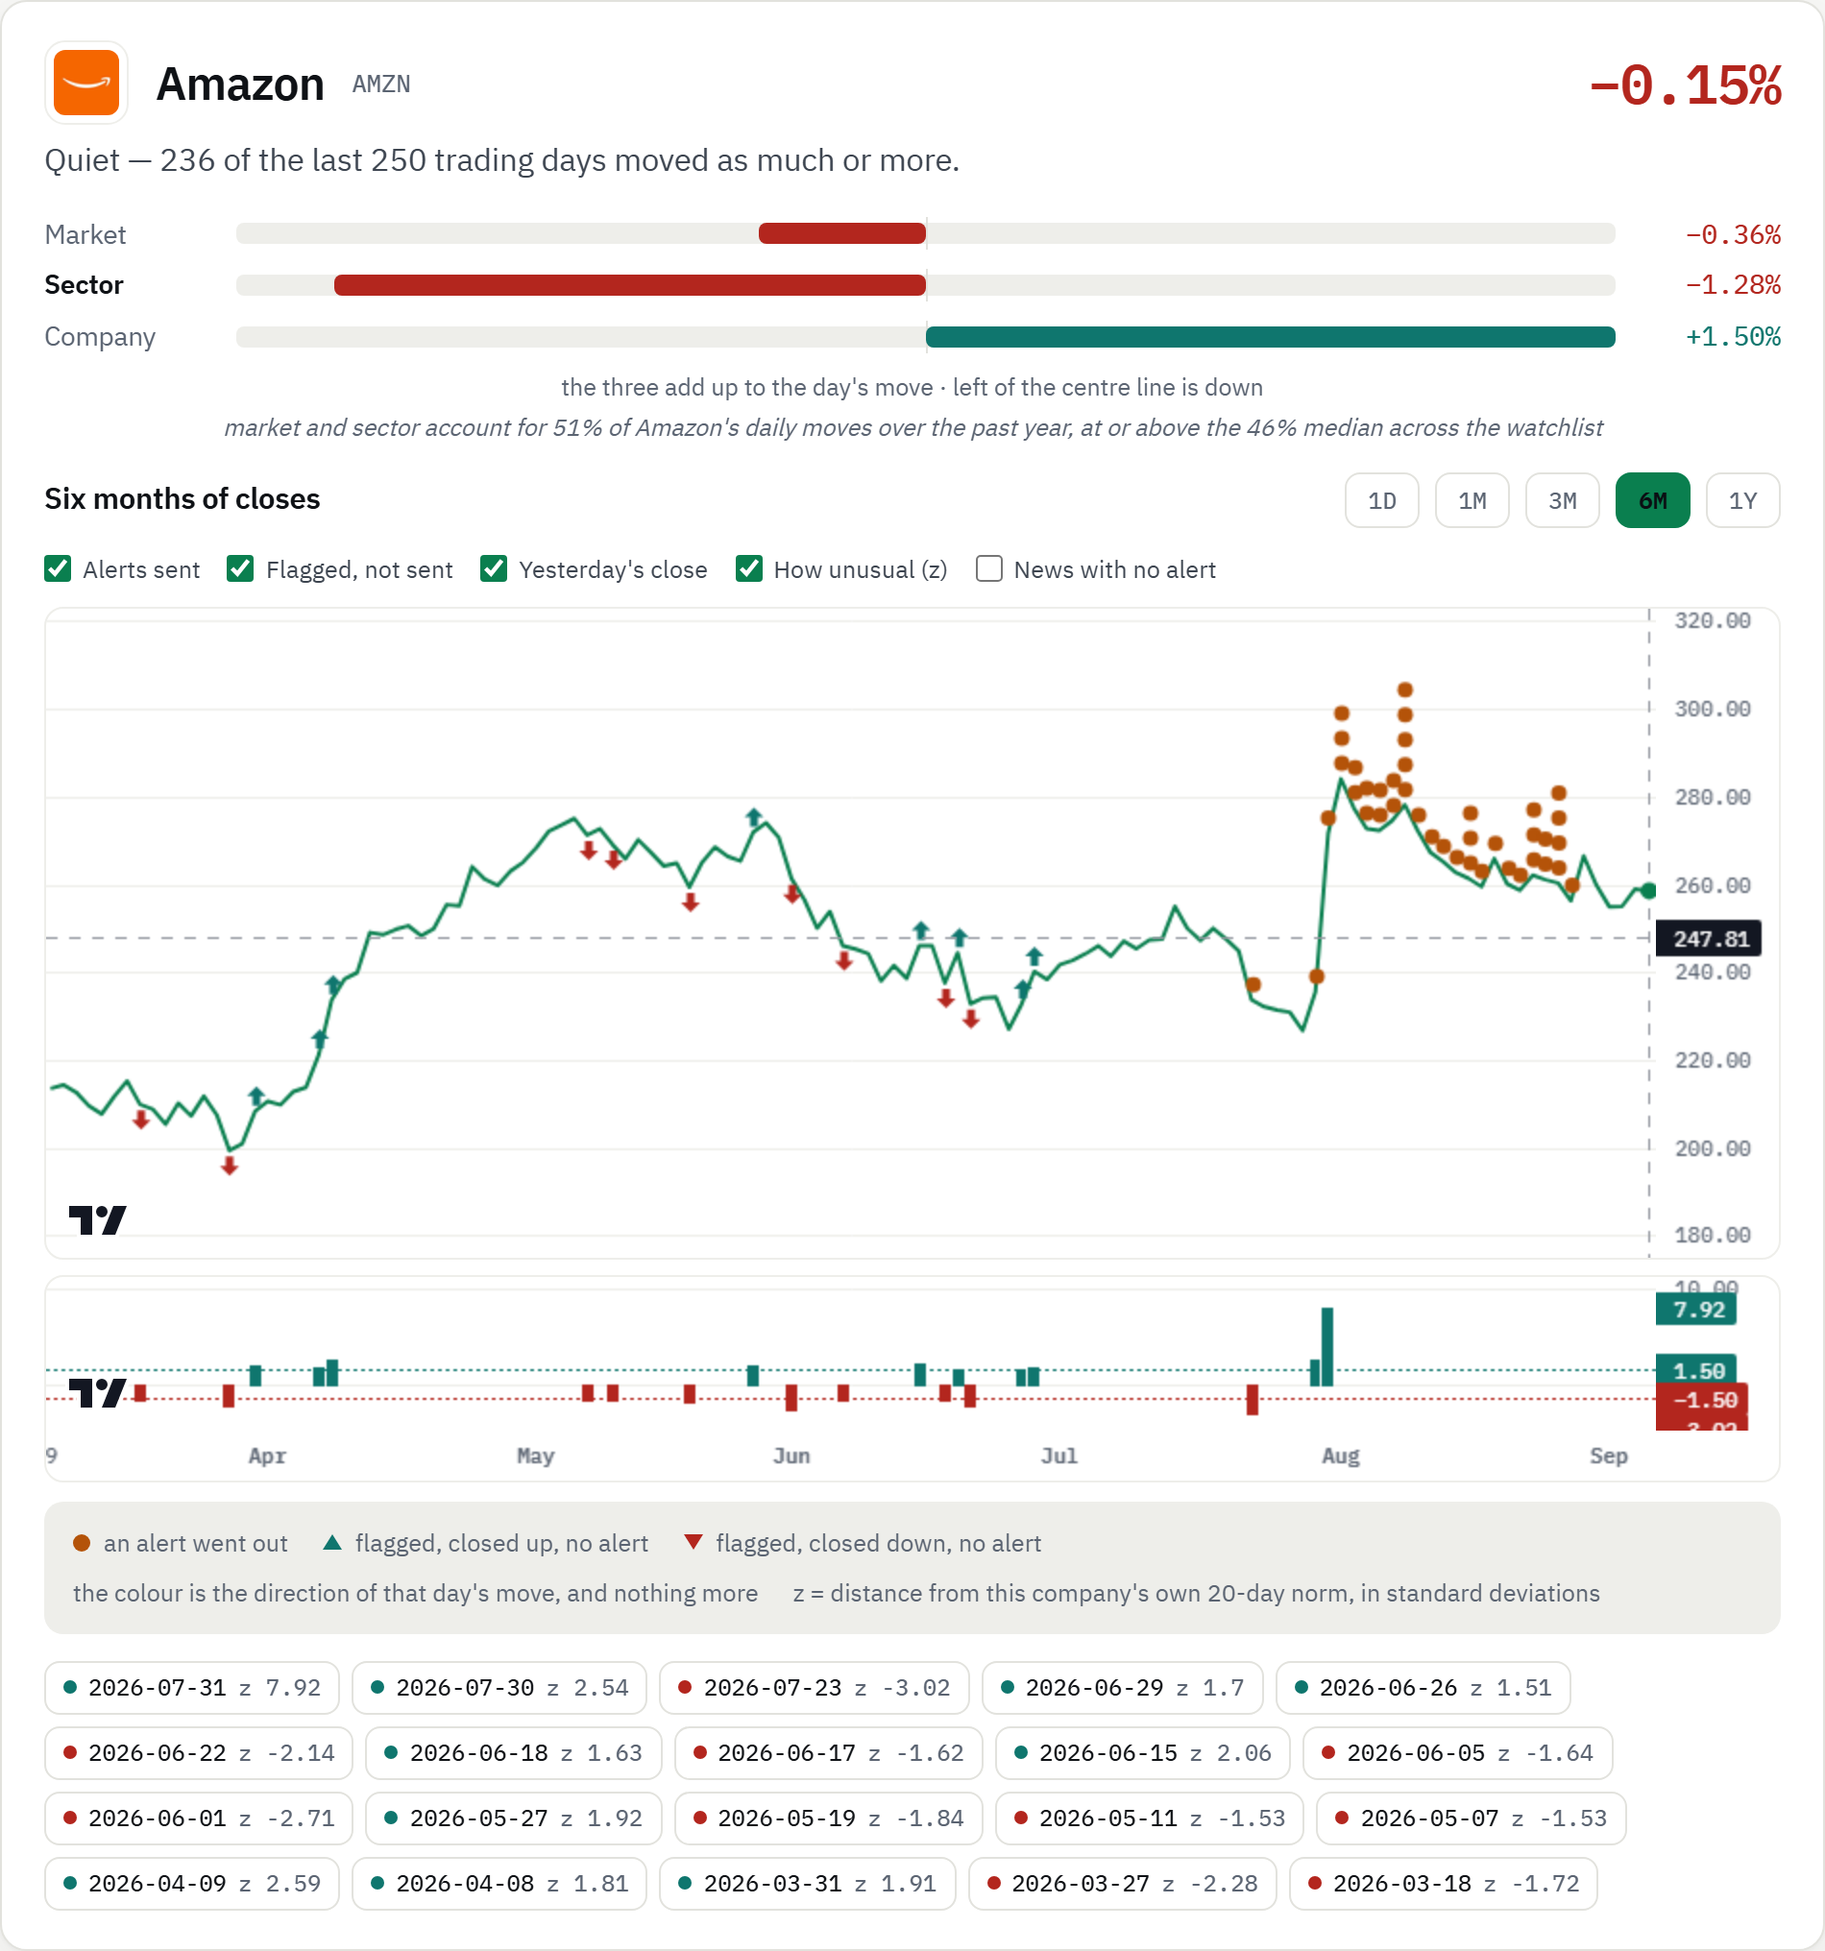
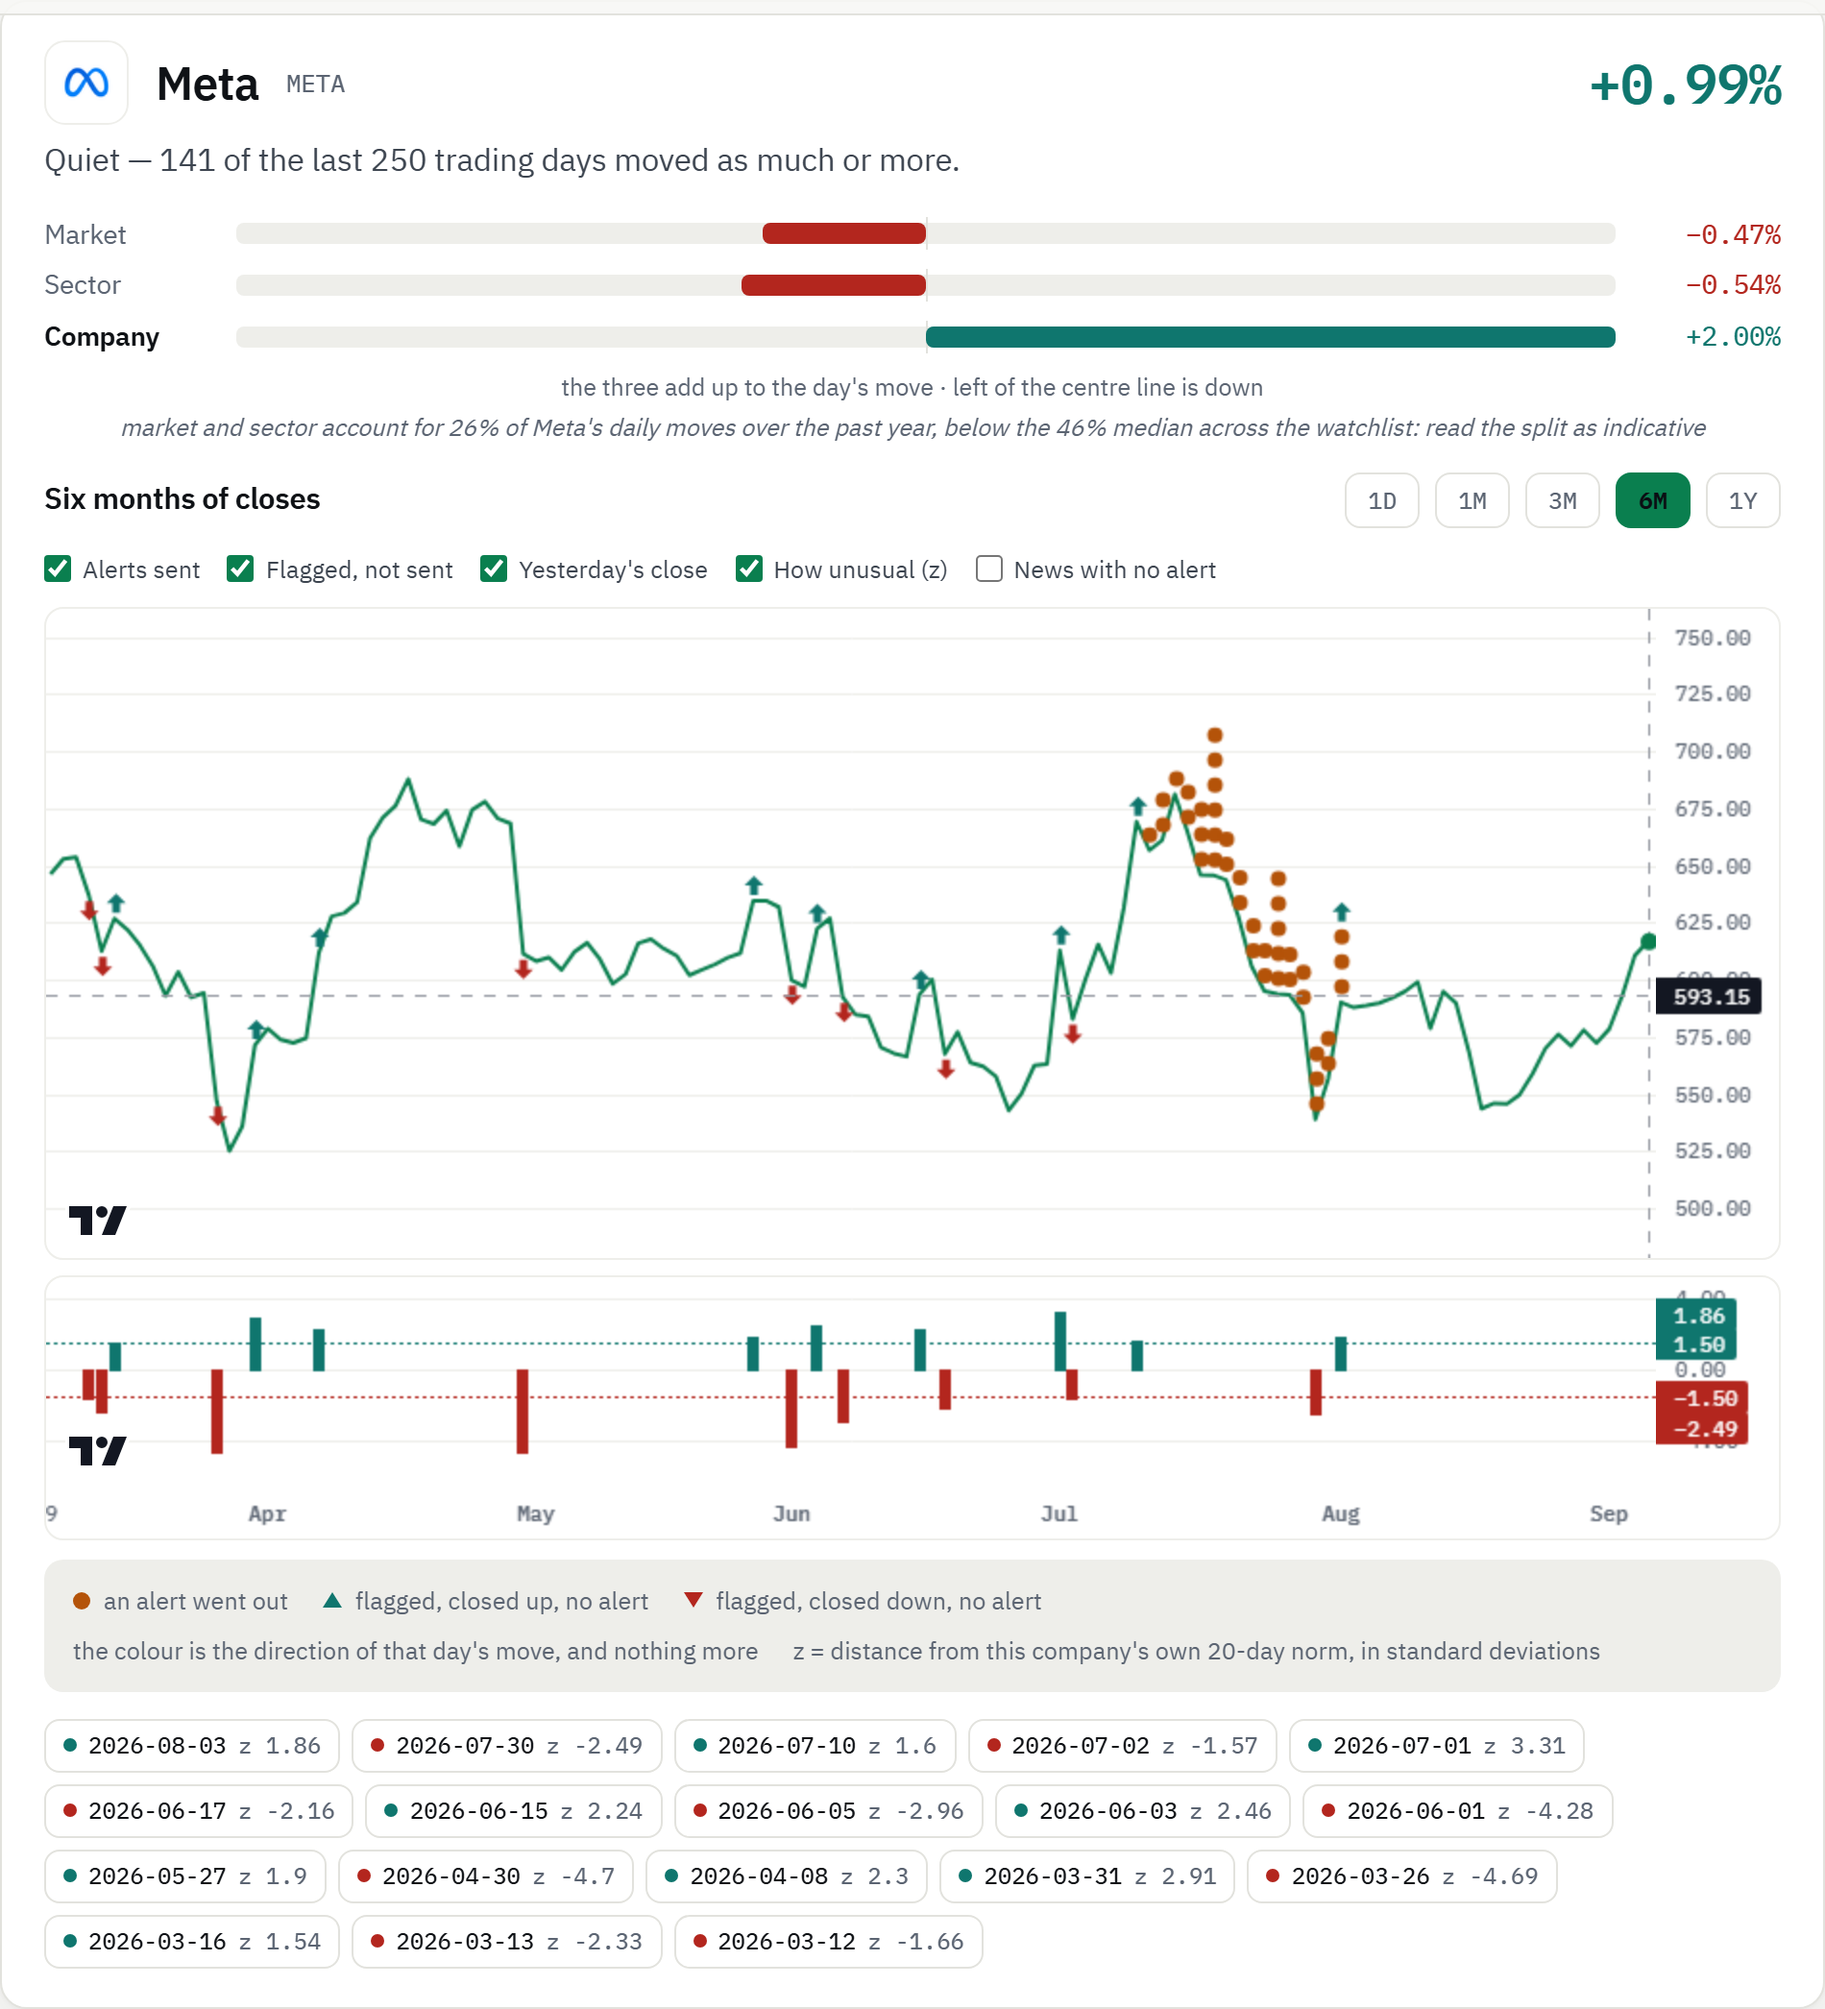
Faixa do z: intervalo fixado, em vez de margem no eixo
A margem não resolvia: o gerador de marcas adapta-se a ela e volta a colocar uma no
bordo, onde sai cortada a meio. O intervalo passa a ser fixado a partir dos dados,
simétrico à volta de zero -- a faixa mede distância à norma nos dois sentidos -- com
meia amplitude de folga para o rótulo mais alto ficar sempre dentro.

diff --git a/web/index.html b/web/index.html
@@ -1134,12 +1134,15 @@ function desenharZ(a) {
   const desce = c.addSeries(LightweightCharts.HistogramSeries, { color:P.desce, priceLineVisible:false });
   sobe.setData(ev.filter(e => e[1] >= 0).map(([t, z]) => ({ time:t, value:z })));
   desce.setData(ev.filter(e => e[1] < 0).map(([t, z]) => ({ time:t, value:z })));
-  // ⚠ Margem no eixo, e a razão vê-se com um z grande. A faixa tem 108 px fixos: quando o
-  // intervalo de z é estreito os rótulos das pontas cabem, mas num dia de z=7,9 as marcas
-  // extremas caem em cima da moldura e o rótulo sai CORTADO A MEIO — «10.00» e «−3.02»
-  // impressos meios, numa faixa que existe para se ler o valor. A margem afasta os extremos
-  // do bordo sem mexer na escala.
-  c.priceScale("right").applyOptions({ scaleMargins: { top: 0.16, bottom: 0.16 } });
+  // ⚠ O INTERVALO É FIXADO À MÃO, e a razão vê-se com um z grande. Deixada em automático,
+  // a escala encosta a marca mais extrema à moldura e o rótulo do eixo sai CORTADO A MEIO —
+  // «10.00» e «−3.02» impressos meios, numa faixa que existe justamente para se ler o valor.
+  // Uma margem não chega: o gerador de marcas adapta-se à margem e volta a pôr uma no bordo.
+  // Simétrico à volta de zero, porque a faixa mede distância à norma nos dois sentidos, e com
+  // meia amplitude de folga para o rótulo mais alto ficar sempre dentro.
+  const zMax = Math.max(1.5, ...ev.map(e => Math.abs(e[1]))) * 1.5;
+  base.applyOptions({ autoscaleInfoProvider: () => ({
+    priceRange: { minValue: -zMax, maxValue: zMax } }) });
   c.timeScale().fitContent();
   if (S.obsZ) S.obsZ.disconnect();
   S.obsZ = new ResizeObserver(() => c.applyOptions({ width: alvo.clientWidth }));

diff --git a/tests/test_decomposicao_qualidade.py b/tests/test_decomposicao_qualidade.py
@@ -181,9 +181,16 @@ def test_a_altura_da_faixa_do_z_vive_num_so_sitio():
     )
 
 
-def test_a_faixa_do_z_afasta_os_extremos_do_bordo():
-    """Sem margem, a marca mais alta assenta na moldura e o rótulo sai cortado."""
+def test_a_faixa_do_z_fixa_o_intervalo_em_vez_de_o_deixar_automatico():
+    """Em automático a marca extrema assenta na moldura e o rótulo sai cortado.
+
+    ⚠ Uma margem no eixo NÃO resolve, e tentá-lo foi o caminho errado: o gerador de marcas
+    adapta-se à margem e volta a colocar uma no bordo. O que resolve é fixar o intervalo,
+    simétrico à volta de zero — a faixa mede distância à norma nos dois sentidos — com
+    folga suficiente para o rótulo mais alto ficar dentro.
+    """
     txt = PAGINA.read_text(encoding="utf-8")
-    m = re.search(r"scaleMargins:\s*\{\s*top:\s*([0-9.]+),\s*bottom:\s*([0-9.]+)", txt)
-    assert m, "a faixa do z perdeu a margem do eixo"
-    assert float(m.group(1)) > 0.05 and float(m.group(2)) > 0.05, m.groups()
+    assert "autoscaleInfoProvider" in txt, "a faixa do z voltou à escala automática"
+    m = re.search(r"const zMax = Math\.max\(1\.5,.*\* ([0-9.]+);", txt)
+    assert m, "o intervalo da faixa deixou de ser calculado a partir dos dados"
+    assert float(m.group(1)) >= 1.3, f"folga de {m.group(1)} é pouca para o rótulo do topo"
